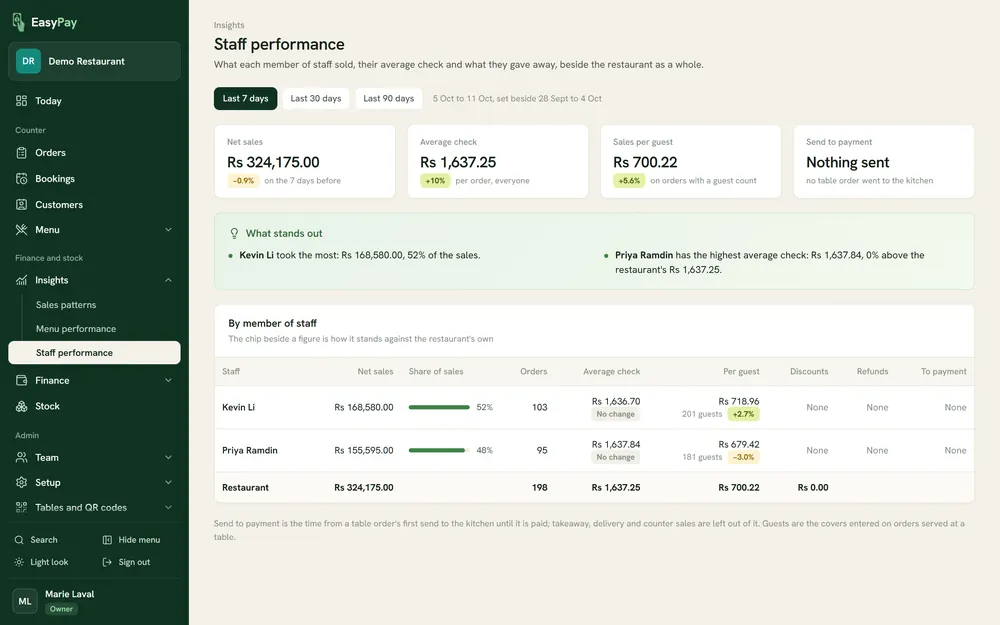
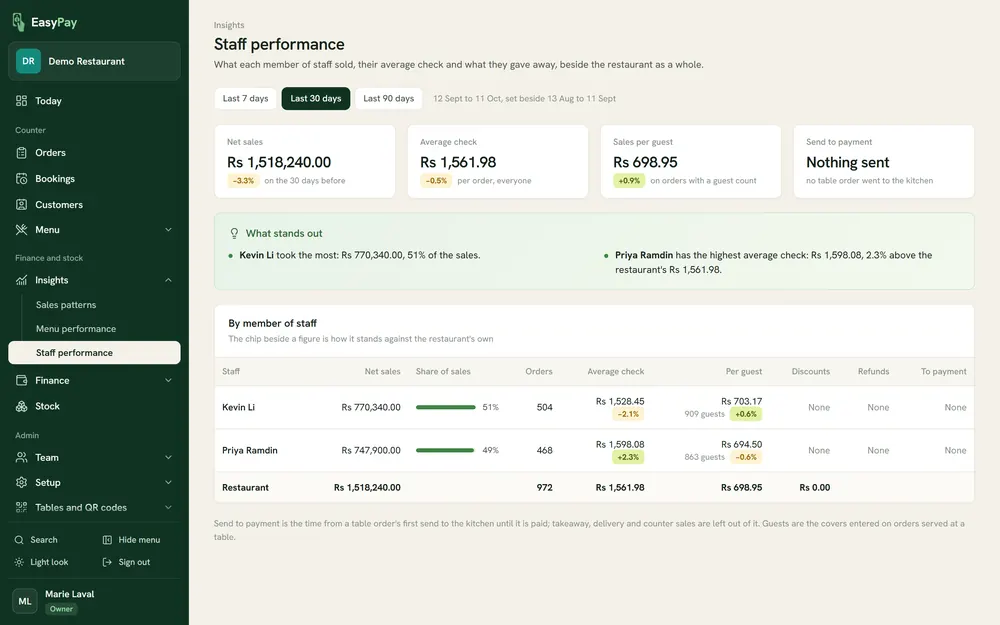
site: the back office's pictures taken again, from sixty days of made-up sales. The first ones were taken on a Sunday from thirty days: the seven-day view they showed said that nothing was sold on a Sunday (the day itself is left empty) and compared with a week that was partly missing. These show th

diff --git a/site/product.html b/site/product.html
@@ -169,7 +169,7 @@
     <div class="stage stage--office" data-solid data-reveal>
       <div class="tour" data-tour data-only="restaurant">
           <div class="tour-tabs" role="tablist" aria-label="Pages of a restaurant’s back office">
-            <button type="button" role="tab" aria-selected="true" data-shot="restaurant-insights" data-alt="The Sales patterns page: sales, orders and average check for the last 7 days, what stands out, and a grid of busy hours" data-says="When you sell. The days and the hours that bring the money in, set beside the days before, with what stands out written in plain words.">Insights</button>
+            <button type="button" role="tab" aria-selected="true" data-shot="restaurant-insights" data-alt="The Sales patterns page: sales, orders and average check for the last 30 days, what stands out, and a grid of busy hours" data-says="When you sell. The days and the hours that bring the money in, set beside the days before, with what stands out written in plain words.">Insights</button>
             <button type="button" role="tab" aria-selected="false" data-shot="restaurant-sales" data-alt="The Sales summary page: what was collected, refunds, and the sales of each day" data-says="What was sold, refunded and collected over the days you pick, by payment method, order type and member of staff. It downloads as a spreadsheet.">Sales</button>
             <button type="button" role="tab" aria-selected="false" data-shot="restaurant-orders" data-alt="The Orders page: receipts listed with their table or order type, who rang them up and their total" data-says="Every receipt in full: what was ordered, by whom, the discounts, the tax and how it was paid.">Orders</button>
             <button type="button" role="tab" aria-selected="false" data-shot="restaurant-menu" data-alt="The Items page: dishes with their category, tax, add-ons, price and whether they are on sale" data-says="Your dishes with their category, tax, add-ons and price. Change a price or take a dish off sale in the list; the tablets have it at their next sync.">Menu</button>
@@ -179,7 +179,7 @@
           </div>
           <figure class="webapp">
             <div class="webapp-bar" aria-hidden="true"><i></i><i></i><i></i><span>easypaypos.com/backoffice</span></div>
-            <img data-tour-img src="assets/shots/restaurant-insights-1000.webp" srcset="assets/shots/restaurant-insights-1000.webp 1000w, assets/shots/restaurant-insights.webp 2000w" sizes="(max-width: 1348px) 84vw, 1140px" width="2000" height="1250" alt="The Sales patterns page: sales, orders and average check for the last 7 days, what stands out, and a grid of busy hours" loading="lazy" decoding="async">
+            <img data-tour-img src="assets/shots/restaurant-insights-1000.webp" srcset="assets/shots/restaurant-insights-1000.webp 1000w, assets/shots/restaurant-insights.webp 2000w" sizes="(max-width: 1348px) 84vw, 1140px" width="2000" height="1250" alt="The Sales patterns page: sales, orders and average check for the last 30 days, what stands out, and a grid of busy hours" loading="lazy" decoding="async">
           </figure>
           <p class="tour-says" data-tour-says aria-live="polite">When you sell. The days and the hours that bring the money in, set beside the days before, with what stands out written in plain words.</p>
       </div>
